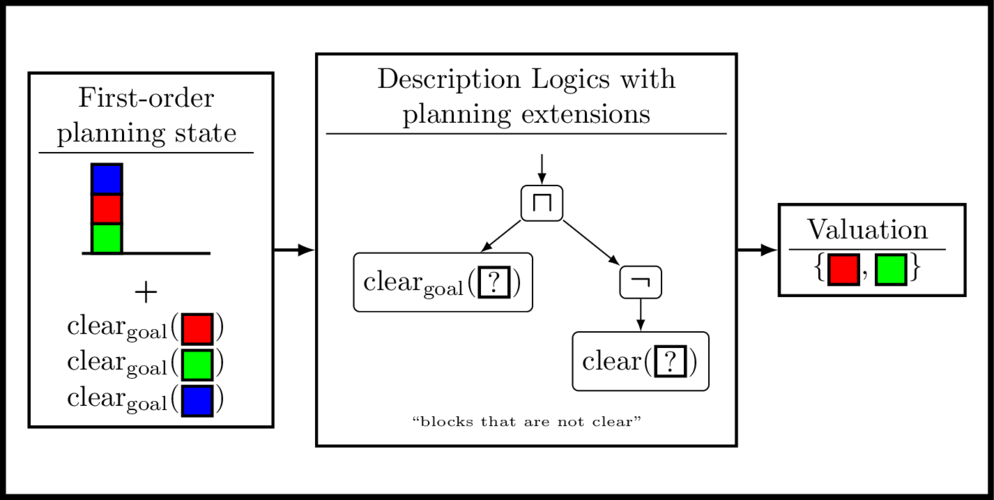
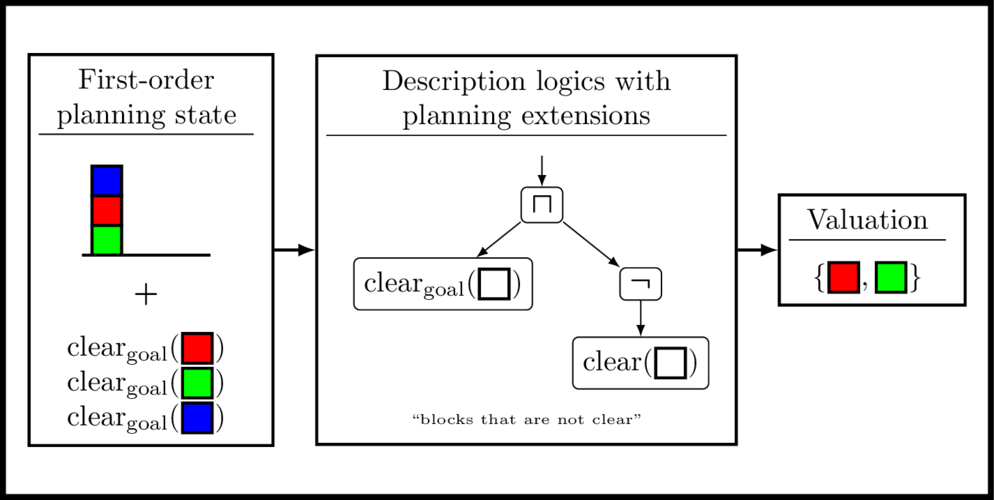
added a bit more spacing

diff --git a/images/thumbnail.tex b/images/thumbnail.tex
@@ -21,6 +21,7 @@
         \begin{tabular}{c}
         First-order \\ planning state \\
         \hline
+        \\[-5pt]
         \begin{tikzpicture}[scale=0.12]
             \node[align=center] (dummy) at (0,3) {\block{0.12}{red}{}};
             \node[align=center] (dummy) at (0,0) {\block{0.12}{green}{}};
@@ -28,23 +29,24 @@
             \draw[line width=1] (-3,-1.5) -- (10,-1.5);
         \end{tikzpicture} \\
         $\boldsymbol{+}$ \\
-        $\text{clear}_\text{goal}(\kern-3pt\raisebox{-4pt}{\block{0.12}{red}{}}\kern-3pt)$ \\
-        $\text{clear}_\text{goal}(\kern-3pt\raisebox{-4pt}{\block{0.12}{green}{}}\kern-3pt)$ \\
-        $\text{clear}_\text{goal}(\kern-3pt\raisebox{-4pt}{\block{0.12}{blue}{}}\kern-3pt)$
+        \\[-5pt]
+        $\text{clear}_\text{goal}(\kern-3pt\raisebox{-3pt}{\block{0.12}{red}{}}\kern-3pt)$ \\
+        $\text{clear}_\text{goal}(\kern-3pt\raisebox{-3pt}{\block{0.12}{green}{}}\kern-3pt)$ \\
+        $\text{clear}_\text{goal}(\kern-3pt\raisebox{-3pt}{\block{0.12}{blue}{}}\kern-3pt)$
     \end{tabular}
     };
 
     \node[draw, rectangle, line width=1pt, align=center] (feature) at (53,25) {
         \begin{tabular}{c}
-            Description Logics with \\ planning extensions \\
+            Description logics with \\ planning extensions \\
             \hline
             \rule{0pt}{30pt}
             \begin{tikzpicture}[scale=0.12]
                 \node[align=center] (dummy) at (0,40) {};
                 \node[draw, rectangle, rounded corners=2pt, align=center] (root) at (0,34) {$\boldsymbol{\sqcap}$};
-                \node[draw, rectangle, rounded corners=2pt, align=center] (n1) at (-10,26) {$\text{clear}_\text{goal}(\kern-3pt\raisebox{-4pt}{\block{0.12}{white}{?}}\kern-3pt)$};
+                \node[draw, rectangle, rounded corners=2pt, align=center] (n1) at (-10,26) {$\text{clear}_\text{goal}(\kern-3pt\raisebox{-3pt}{\block{0.12}{white}{}}\kern-3pt)$};
                 \node[draw, rectangle, rounded corners=2pt, align=center] (n2) at (10,26) {$\boldsymbol{\neg}$};
-                \node[draw, rectangle, rounded corners=2pt, align=center] (n3) at (10,18) {clear(\kern-3pt\raisebox{-4pt}{\block{0.12}{white}{?}}\kern-3pt)};
+                \node[draw, rectangle, rounded corners=2pt, align=center] (n3) at (10,18) {clear(\kern-3pt\raisebox{-3pt}{\block{0.12}{white}{}}\kern-3pt)};
 
                 \draw[-latex] (dummy) -- (root);
                 \draw[-latex] (root) -- (n1);
@@ -58,7 +60,8 @@
         \begin{tabular}{c}
             Valuation \\
             \hline
-            $\{\kern-3pt\raisebox{-4pt}{\block{0.12}{red}{}}\kern-3pt,\kern-3pt\raisebox{-4pt}{\block{0.12}{green}{}}\kern-3pt\}$ \\
+            \\[-5pt]
+            $\{\kern-3pt\raisebox{-3pt}{\block{0.12}{red}{}}\kern-3pt,\kern-3pt\raisebox{-3pt}{\block{0.12}{green}{}}\kern-3pt\}$ \\
         \end{tabular}
     };
 
